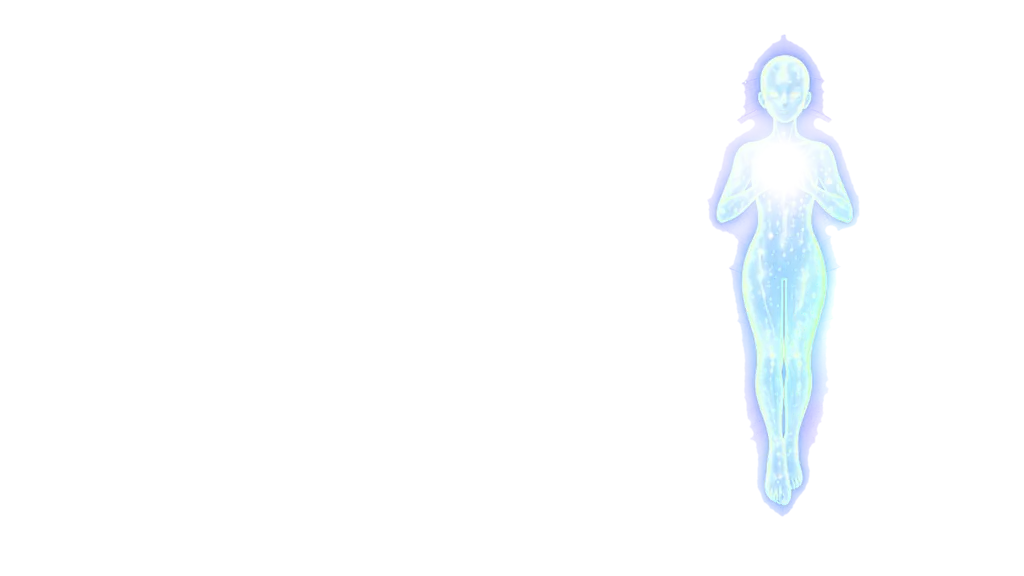
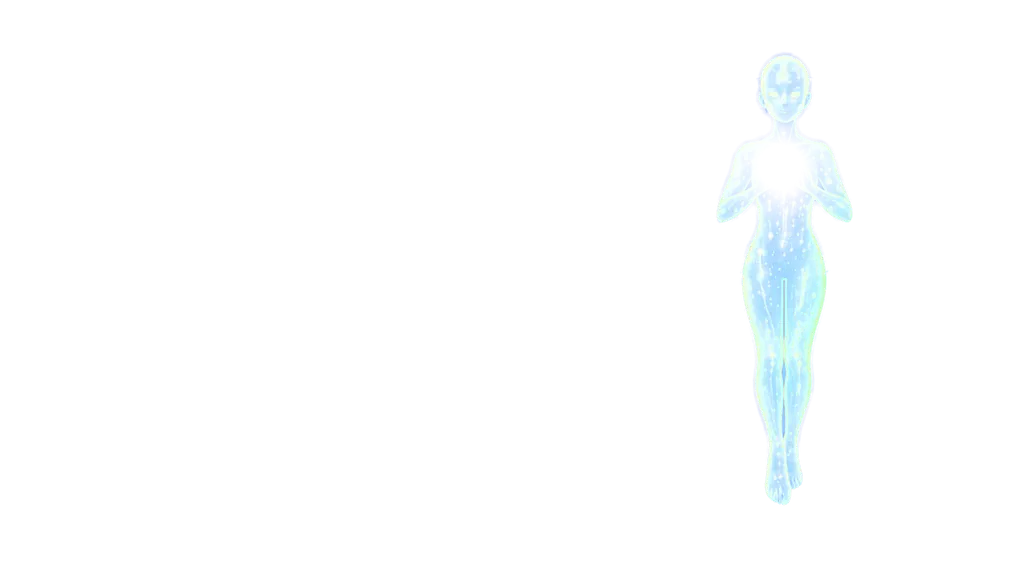
feat(story): nuevo recorte de la figura en las capas 08 y 09
Entrega "Story Dark Theme 3 parallax-cosmic-being.zip". Comparados por
sha256 los once PNG maestros contra los del zip anterior, SOLO cambian
08-figure-aura y 09-figure; las otras nueve son byte a byte las mismas y sus
WebP desplegados no se regeneran, asi que no entran en este diff.

QUE CAMBIA EN EL ARTE: la mascara del cuerpo ya no sale de la luminancia
sino del canal MINIMO de RGB (blancura). El cuerpo es casi blanco --sus tres
canales son altos a la vez-- y el halo es azul saturado, asi que por brillo
se confunden y por blancura no. 09-figure pasa a ser un recorte cenido de
444x1473 px y TODO el borde luminoso que rodeaba al cuerpo se va a
08-figure-aura. El reparto de energia sigue siendo exacto.

Eso tiene una consecuencia para el parallax que no es cosmetica y queda
anotada junto a las dos entradas de la tabla: como ambas capas tienen depth
distinto (0.63 y 0.68), cuanto mas se separen mas se despega el resplandor
del cuerpo. Los 0.05 de separacion son los del paquete y dan ~9.5px de
desfase a scroll completo con STORY_COSMIC_BEING_SCROLL_AMP.

PIPELINE DE CODIFICACION, RECONSTRUIDO Y PROBADO ANTES DE USARLO: los WebP
desplegados no salen del zip, se recodifican a 1280 y 1024, y nadie habia
anotado con que. En vez de elegir unos parametros plausibles se buscaron por
fuerza bruta contra una capa INTACTA y se valido el candidato sobre las
nueve: Image.resize(LANCZOS) + save(WEBP, quality=70, method=6) reproduce
[…]

Changed region(s): [[0.6875, 0.25, 0.7812, 0.9062], [0.7812, 0.25, 0.8438, 0.8438], [0.7188, 0.0625, 0.8125, 0.25]]

diff --git a/src/components/storyCosmicBeing/storyCosmicBeing.layers.ts b/src/components/storyCosmicBeing/storyCosmicBeing.layers.ts
@@ -91,6 +91,16 @@ export const STORY_COSMIC_BEING_LAYERS: readonly StoryCosmicBeingLayer[] = [
     depth: 0.56,
     blend: "plus-lighter",
   },
+  // Las dos capas de la figura se reparten distinto desde la entrega del
+  // 2026-08-01 (zip 3): la mascara del cuerpo ya no sale de la luminancia sino
+  // del canal MINIMO de RGB, asi que 09-figure es SOLO el cuerpo (recorte
+  // cenido) y todo el borde luminoso que lo rodea vive ahora en
+  // 08-figure-aura. El reparto de energia sigue siendo exacto, pero la
+  // separacion de `depth` entre ambas ya no es cosmetica: cuanto mas se
+  // separen, mas se despega el resplandor del cuerpo (queda de estela con el
+  // aura). Los 0.05 de aqui son los del paquete y dan ~9.5px de desfase a
+  // scroll completo con STORY_COSMIC_BEING_SCROLL_AMP; subirlos exagera ese
+  // despegue.
   {
     part: "figure-aura",
     src: "/story/cosmic-being/08-figure-aura.webp",
@@ -139,11 +149,11 @@ export const STORY_COSMIC_BEING_OVERSCAN = 1.02;
 export const STORY_COSMIC_BEING_VOID = "#05010e";
 
 /**
- * Amplitud del parallax de puntero en px, a profundidad 1. Tomada de
- * motionHints.swingXpx/swingYpx en assets/story-cosmic-being/manifest.json
- * -- calibrada contra ESTE arte, no reutiliza los valores de
- * STORY_COSMIC_HEART_POINTER_AMP (22/13): un lienzo y una composicion
- * distintos piden su propia amplitud.
+ * Amplitud del parallax de puntero en px, a profundidad 1. NO son los valores
+ * de motionHints.swingXpx/swingYpx del manifest de esta escena (46/30): esos
+ * son la sugerencia del paquete y aqui se bajaron a mano tras verlos en
+ * pantalla. Tampoco reutiliza STORY_COSMIC_HEART_POINTER_AMP (22/13): un
+ * lienzo y una composicion distintos piden su propia amplitud.
  */
 export const STORY_COSMIC_BEING_POINTER_AMP = { x: 10, y: 20 } as const;
 
